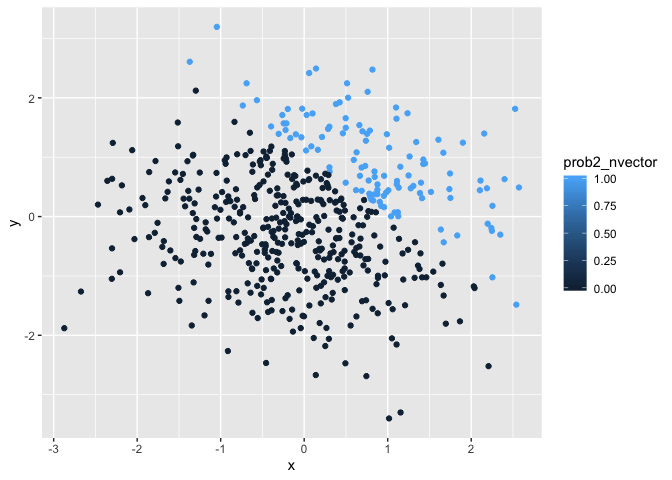
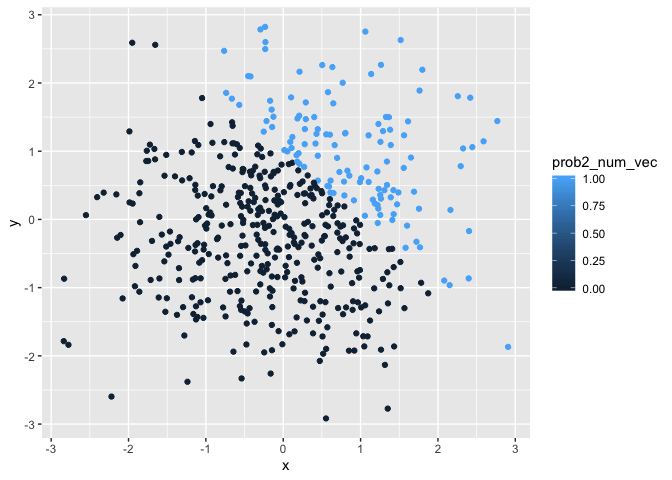
updated the fomatting and wording

diff --git a/p8105_hw1_hf2379.md b/p8105_hw1_hf2379.md
@@ -10,63 +10,84 @@ Holly Finertie (HF2379), Due:
 ``` r
 prob1_df = tibble (
   prob1_sample = rnorm(8, mean=0, sd = 1),
-  prob1_sample_over0 = prob1_sample > 0,
-  prob1_char = c("I","Am", "A", "Little", "Confused", "Is", "This", "Right"),
-  prob1_factor = factor(c("yes", "no", "maybe", "yes", "no", "maybe", "yes", "no"))
+  prob1_logic_vec = prob1_sample > 0,
+  prob1_char_vec = c("I","Am", "A", "Little", "Confused", "Is", "This", "Right"),
+  prob1_factor_vec = factor(c("yes", "no", "maybe", "yes", "no", "maybe", "yes", "no"))
 )
 ```
 
 ## Try to take the mean of each variable:
 
-  - The mean of the sample size is 0.0197641.
+  - **The mean of the sample size is -0.1242432**. We are able to take
+    the mean because the sample size is a numeric data type.
 
-  - The mean of the logical statement is 0.375.
+  - **The mean of the logical statement is 0.25**. We are able to take
+    the mean of the logical statement because it is a Boolean data type
+    (TRUE=1 and FALSE=0). Even if the output is displayed as TRUE/FALSE,
+    the values of 1 and 0 are in the background.
 
-  - The mean of the character vector is NA.
+  - **The mean of the character vector is NA**. We are not able to take
+    the mean of the character vector because it is text/character data
+    type that does not correspond with numeric values. The error states
+    that we can only take the mean of a numeric or logical argument.
 
-  - The mean of the factor vector is NA.
+  - **The mean of the factor vector is NA**. We are unable to take the
+    mean of the factor vector because it is a text/character data type
+    that does not correspond with numeric values. The error states that
+    we can only take the mean of a numeric or logical argument.
 
-We were able to take the mean of the first two variables because they
-are numeric. However, we could not take the mean of the character or
-factor vector because they were text and not numeric.
-
-## Convert Code Chunk to Numeric
-
-``` r
-as.numeric(pull(prob1_df, prob1_sample_over0))
-as.numeric(pull(prob1_df, prob1_char))
-as.numeric(pull(prob1_df, prob1_factor))
-```
-
-I was able to convert the logical statement and factor vector to
-numeric, but not the character vector. This does not completely explain
-why I was unable to take the mean of
-the
-
-## Second Code Chunk
+## First Code Chunk: Convert to numeric
 
 ``` r
-as.numeric(pull(prob1_df, prob1_sample_over0))*pull(prob1_df, prob1_sample)
+as.numeric(pull(prob1_df, prob1_logic_vec))
+as.numeric(pull(prob1_df, prob1_char_vec))
+as.numeric(pull(prob1_df, prob1_factor_vec))
 ```
 
-    ## [1] 1.7188590 0.0000000 0.0000000 1.3644171 0.6082492 0.0000000 0.0000000
-    ## [8] 0.0000000
+The as.numeric function works on the logic and factor vectors, but not
+the character vector. We already knew that we were able to take the mean
+of a Boolean data type (logic vector); however, it is surprising that
+the as.numeric function works on the factor vector when we were unable
+to take the mean. Becuase there were 3 levels, the as.numeric function
+converted the different levels to 1, 2, and 3. Last, and unsurprisingly,
+the as.numeric function did not work on the character vector. There is
+not logical way to convert random words without a pattern into
+    numbers.
+
+## Second Code Chunk: Convert and multiply
 
 ``` r
-as.factor(pull(prob1_df, prob1_sample_over0))*pull(prob1_df, prob1_sample)
+as.numeric(pull(prob1_df, prob1_logic_vec))*pull(prob1_df, prob1_sample)
 ```
 
-    ## Warning in Ops.factor(as.factor(pull(prob1_df, prob1_sample_over0)),
+    ## [1] 0.000000 0.000000 0.000000 2.235050 0.000000 0.000000 0.000000 1.185998
+
+``` r
+as.factor(pull(prob1_df, prob1_logic_vec))*pull(prob1_df, prob1_sample)
+```
+
+    ## Warning in Ops.factor(as.factor(pull(prob1_df, prob1_logic_vec)),
     ## pull(prob1_df, : '*' not meaningful for factors
 
     ## [1] NA NA NA NA NA NA NA NA
 
 ``` r
-as.numeric(as.factor(pull(prob1_df, prob1_sample_over0)))*pull(prob1_df, prob1_sample)
+as.numeric(as.factor(pull(prob1_df, prob1_logic_vec)))*pull(prob1_df, prob1_sample)
 ```
 
-    ## [1]  3.4377180 -0.9292944 -1.1350257  2.7288342  1.2164985 -1.0547636
-    ## [7] -0.3088940 -0.1054346
+    ## [1] -0.22764070 -2.27187197 -1.24547077  4.47010045 -0.18481126 -0.43334521
+    ## [7] -0.05185446  2.37199682
+
+As seen above, we were able to convert the logical vector into a numeric
+value and multiply by the random sample.The other two commands had more
+surprising results. We learned that converting the logical vector to a
+factor vector resulted in a vector that was unable to be multiplied by
+the random sample. Then, we were able to convert a logical vector into a
+factor vector and then into a numeric vector, which was able to be
+multiplied. Both these results align with our previous attempts to do
+math with different data types: (1) we tried to take the mean of a
+factor and that didnt’ work and (2) we convereted a factor vector into a
+numeric vector and were able to take the mean.
 
 # Problem 2
 
@@ -74,9 +95,9 @@ as.numeric(as.factor(pull(prob1_df, prob1_sample_over0)))*pull(prob1_df, prob1_s
 prob2_df = tibble(
   x = rnorm(500, mean = 0, sd = 1),
   y = rnorm(500, mean = 0, sd = 1),
-  prob2_logical = (x + y) > 1,
-  prob2_nvector = as.numeric(prob2_logical),
-  prob2_fvector = as.factor(prob2_logical)
+  prob2_logic_vec = (x + y) > 1,
+  prob2_num_vec = as.numeric(prob2_logic_vec),
+  prob2_factor_vec = as.factor(prob2_logic_vec)
 )
 ```
 
@@ -84,53 +105,58 @@ prob2_df = tibble(
 
   - This dataset contains 500 rows and 5 columns
 
-  - the mean of x is 0.015547
+  - The mean of x is 0.0078396
 
-  - the median of x is -0.0030035
+  - The median of x is -0.0164342
 
-  - the standard deviation of x is 0.9920914
+  - The standard deviation of x is 1.0242121
 
-  - the proportion of cases for which x + y \> 1 is
-0.234
+  - The proportion of cases for which x + y \> 1 is
+0.246
 
 ## Plots for Problem 2
 
 ``` r
-plot1 = ggplot(prob2_df, aes(x = x, y = y, color = prob2_logical)) + geom_point()
+plot1 = ggplot(prob2_df, aes(x = x, y = y, color = prob2_logic_vec)) + geom_point()
 plot1
 ```
 
 ![](p8105_hw1_hf2379_files/figure-gfm/problem2_plot_logical-1.png)<!-- -->
-\* This plot has two colors, red and blue, for FALSE and TRUE,
-respectively. That’s because the color assignments are based on the
-values for our logical vector which is either TRUE or
-FALSE.
+
+  - This plot has two colors, red and blue, because we set the colors to
+    equal the logical vector which was two outcomes: FALSE and
+TRUE.
+
+<!-- end list -->
 
 ``` r
-plot2 = ggplot(prob2_df, aes(x = x, y = y, color = prob2_nvector)) + geom_point()
+plot2 = ggplot(prob2_df, aes(x = x, y = y, color = prob2_num_vec)) + geom_point()
 plot2
 ```
 
 ![](p8105_hw1_hf2379_files/figure-gfm/problem2_plot_nvector-1.png)<!-- -->
 
-  - This plot has a range of colors for our range of values between 1
-    and 0. This color is numeric and therefore has a range of values.
-    But since this was built off of our logical vector (TRUE, FALSE), we
-    only see values for 1 and 0
-.
+  - This plot’s colors range from light blue (1.0) to dark blue (0.0)
+    because we set the color equal to the numeric vector which was
+    outcomes 0 and 1. This numeric vector was created from the logical
+    vector (TRUE=1 and FALSE=0). While the color legend provides a range
+    of colors from 0-1, the output only shows dots that correspond to 0
+    and 1 identical to plot 1
+above.
 
 <!-- end list -->
 
 ``` r
-plot3 = ggplot(prob2_df, aes(x = x, y = y, color = prob2_fvector)) + geom_point()
+plot3 = ggplot(prob2_df, aes(x = x, y = y, color = prob2_factor_vec)) + geom_point()
 plot3
 ```
 
 ![](p8105_hw1_hf2379_files/figure-gfm/problem2_plot_fvector-1.png)<!-- -->
 
-  - This plot has two colors, red and blue, for FALSE and TRUE,
-    respectively. That’s because the color assignments are based on the
-    values for our factor vector which are either TRUE or FALSE.
+  - This plot has two colors, red and blue, because we set the colors
+    equal to the factor vector which was two outcomes: FALSE and TRUE.
+    This factor vector was created from the logical vector and therefore
+    the graph is identical to plot 1.
 
 ## Saving my scatterplots
 
@@ -152,4 +178,4 @@ ggsave(plot3, file = "plot3.png")
 
     ## Saving 7 x 5 in image
 
-## Done with HW 1\!
+Done with HW 1\!
